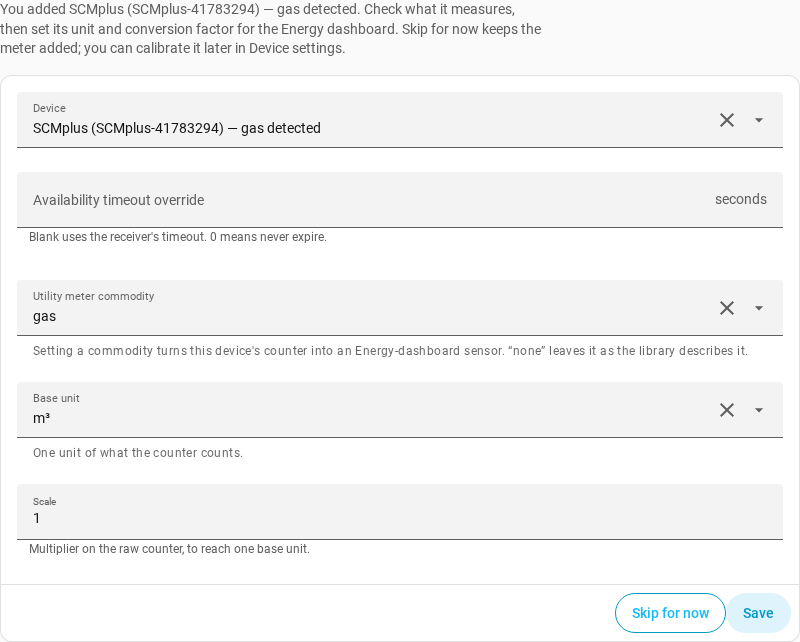
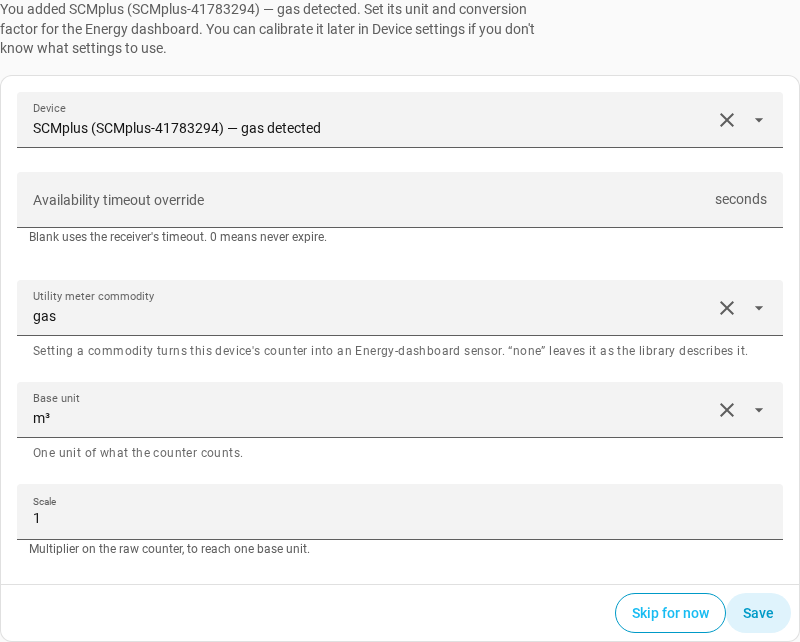
docs(panel): simplify the post-add calibration prompt text
Lead with what to set, and say when to come back later instead of
explaining Skip. Regenerate the docs screenshot with the harness.

Changed region(s): [[0.0, 0.0, 0.6875, 0.0935]]

diff --git a/custom_components/rtl_433/frontend/rtl_433-panel.js b/custom_components/rtl_433/frontend/rtl_433-panel.js
@@ -200,7 +200,7 @@ export const STRINGS = {
   "settings.device_intro":
     "Overrides for one device. Blank means “use the receiver's setting”.",
   "settings.adopt_intro":
-    "You added {device}. Check what it measures, then set its unit and conversion factor for the Energy dashboard. Skip for now keeps the meter added; you can calibrate it later in Device settings.",
+    "You added {device}. Set its unit and conversion factor for the Energy dashboard. You can calibrate it later in Device settings if you don't know what settings to use.",
   "settings.skip_calibration": "Skip for now",
   "settings.adopt_failed":
     "The device was added, but calibration could not be opened: {error}. You can calibrate it later in Device settings.",
